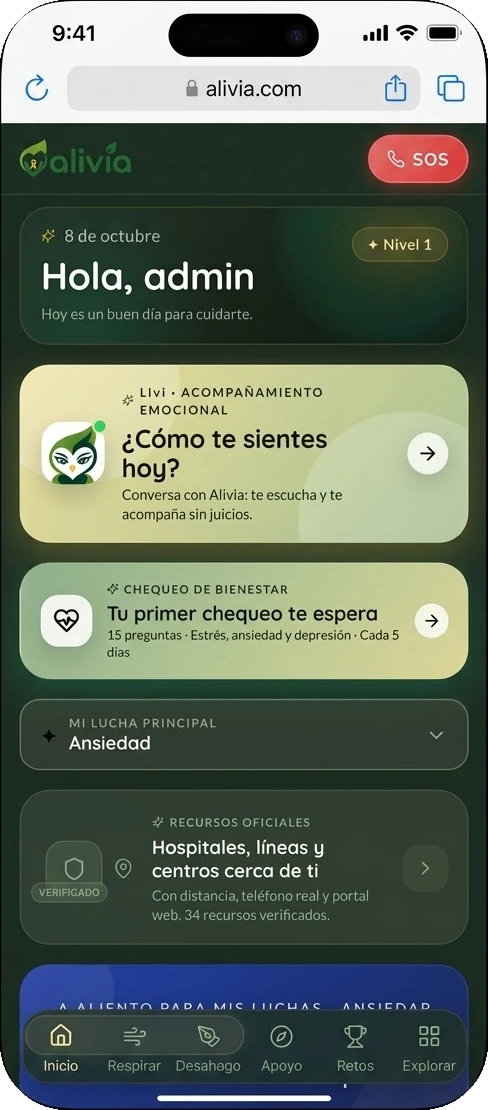
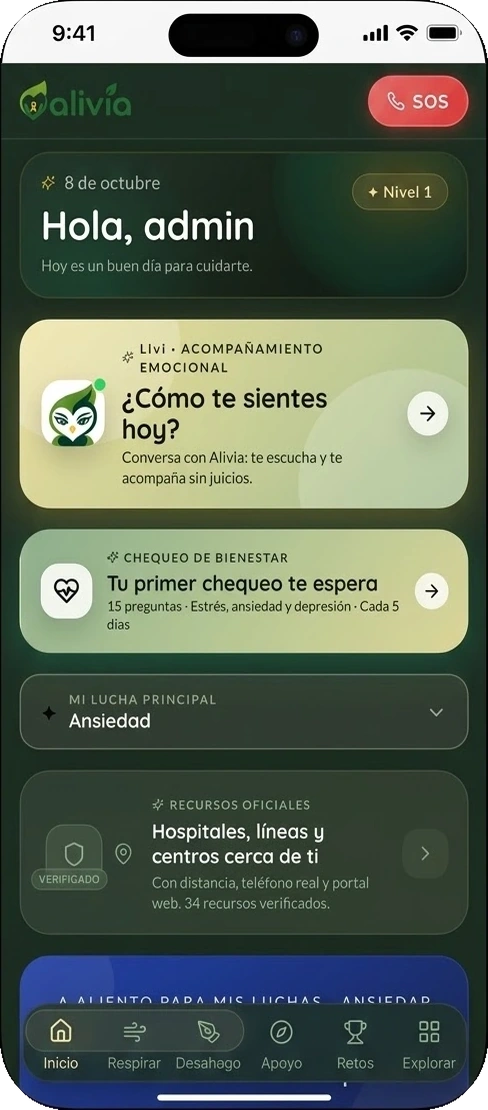
Polish landing phone mockup
Remove the browser toolbar from the app preview and extend the screen beneath the status bar. Remove the mockup caption.\n\nCo-authored-by: Copilot App <223556219+Copilot@users.noreply.github.com>

diff --git a/public/landing.html b/public/landing.html
@@ -236,7 +236,6 @@ a{color:inherit}
 .iphone-button--volume-up{left:-3px;top:23%;height:7%}
 .iphone-button--volume-down{left:-3px;top:31.5%;height:7%}
 .iphone-button--power{right:-3px;top:25%;height:12%}
-.mockup figcaption{margin-top:.8rem;color:var(--texto-3);font-size:.82rem;text-align:center}
 @media (max-width:640px){
   .iphone-device{width:clamp(186.3px,55.08vw,251.1px);max-width:61.56vw}
 }
@@ -737,7 +736,6 @@ a{color:inherit}
           <img src="/alivia-app-screen.webp" alt="">
         </div>
       </div>
-      <figcaption>Una mirada a las herramientas de bienestar que encontrarás en ALIVIA.</figcaption>
     </figure>
   </div>
 </header>
